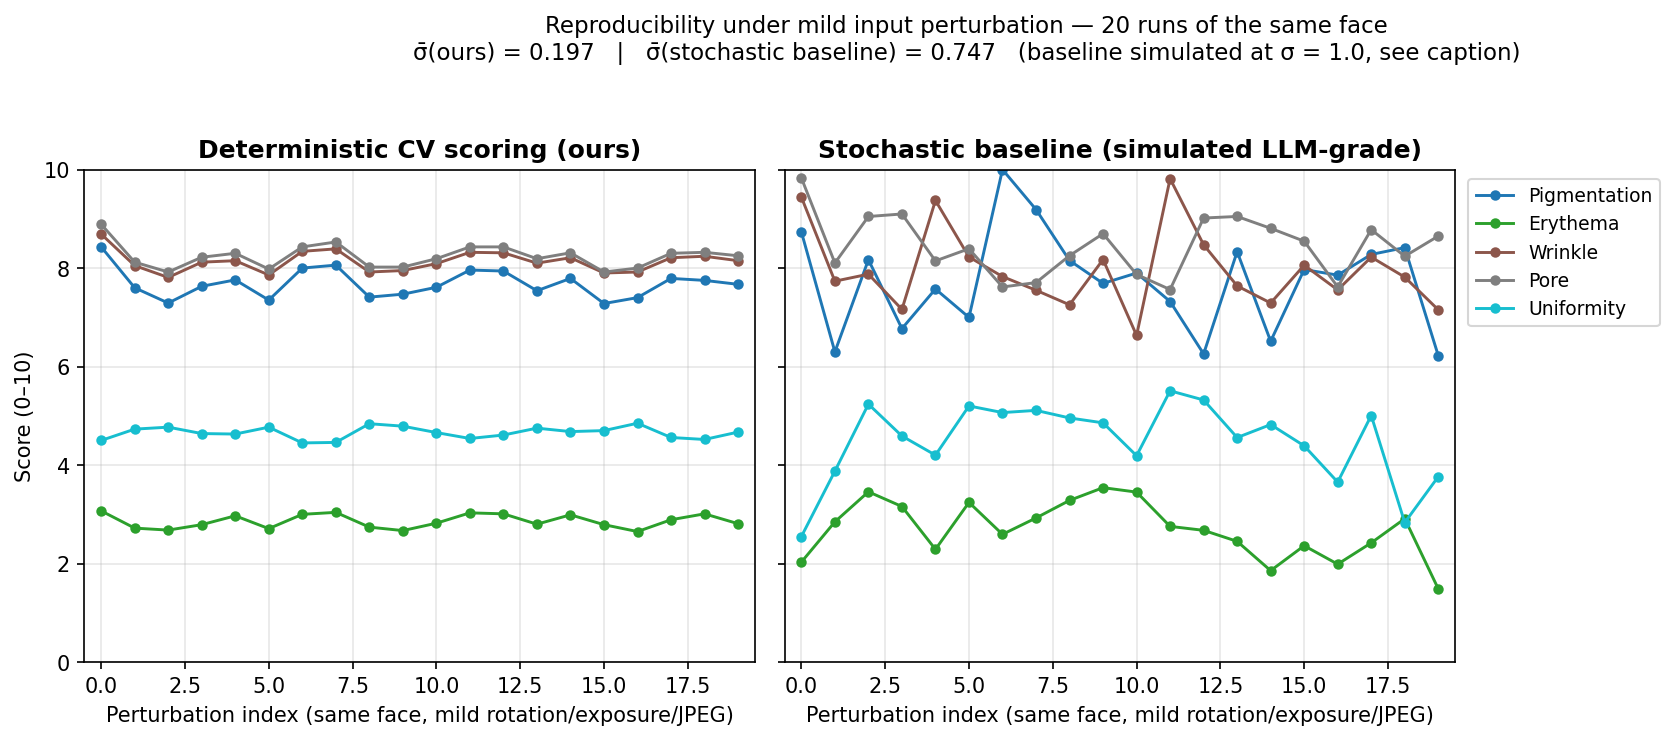
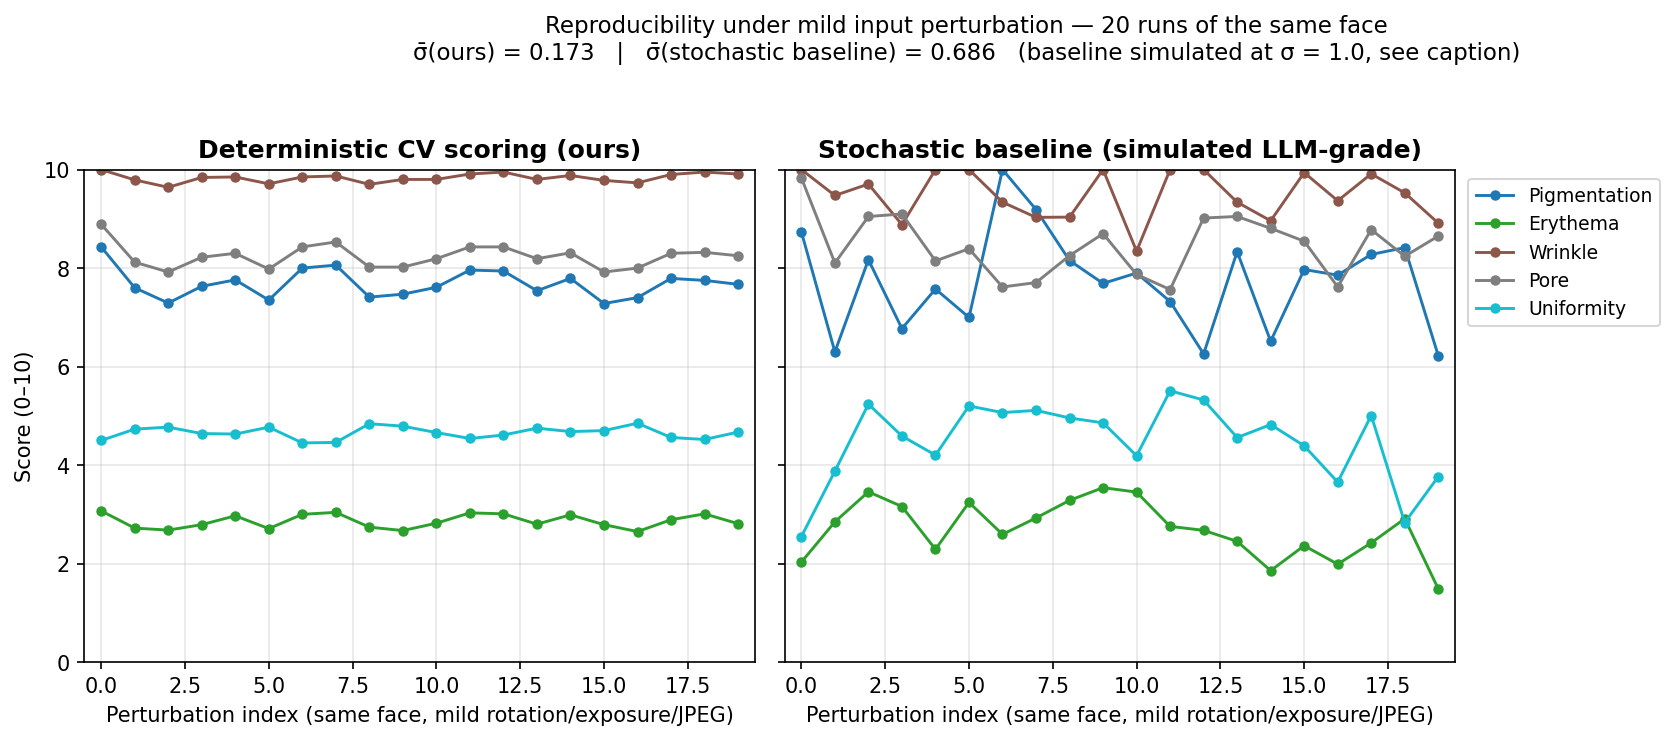
docs: refresh reproducibility evidence for FFHQ-retuned wrinkle range
Regenerated figure + sigma tables. Wrinkle sigma moves 0.209 -> 0.091:
the reference face sits in the FFHQ top tail, so raw values partially
clamp at the new population-calibrated 0.62 ceiling; an honesty note in
BUILD_NOTES S4 / TDD S3 makes the clamp contribution explicit. Other
metric rows unchanged. BUILD_NOTES S6 records the ground-truth re-fit
provenance.

diff --git a/docs/BUILD_NOTES.md b/docs/BUILD_NOTES.md
@@ -164,10 +164,10 @@ qualitative gap is what matters, not the exact baseline number:
 |---|---:|---:|
 | pigmentation | 0.286 | 0.988 |
 | erythema | 0.139 | 0.565 |
-| wrinkle | 0.209 | 0.794 |
+| wrinkle | 0.091 | 0.488 |
 | pore | 0.232 | 0.595 |
 | uniformity | 0.119 | 0.792 |
-| **mean σ̄** | **0.197** | **0.747** |
+| **mean σ̄** | **0.173** | **0.686** |
 
 ~4× tighter than a representative stochastic grader. This is what
 "tracks consistently across visits" means in numbers.
@@ -181,6 +181,16 @@ mid-band where perturbation sensitivity is real and visible. The number
 that actually matters for longitudinal tracking moved the right way:
 **cross-resolution drift on the same face fell from up to 5.5 points
 (v1) to ≤ 1.05 points (v2)** — see Session 4 below for the mechanism.
+
+The v2-retuned wrinkle row deserves the same scrutiny in the other
+direction: this reference face sits in the top tail of the FFHQ
+population (raw wrinkle at/above the p95-calibrated 0.62 ceiling in
+57 of 80 per-ROI measurements across the 20 runs), so part of its
+post-retune σ (0.091) is ceiling-clamp, not pure robustness. That is
+the accepted cost of calibrating the range to the population p5–p95
+instead of to our 5 reference faces — ~5% of real faces will clamp at
+10 by construction. A mid-band reference face would make the wrinkle
+row comparable again; noted as a follow-up.
 
 ## 5. Trade-offs I made deliberately
 
@@ -365,6 +375,14 @@ the reference set (from up to 5.5 pre-v2).
   evenly-lit reference faces (`WRINKLE 0.10–0.50 → 0.25–0.75`,
   `PORE 0.01–0.15 → 0.03–0.22`); pigmentation / erythema / uniformity
   distributions were unchanged and keep their v1 ranges.
+* **Wrinkle range re-fitted a second time, now against ground truth**
+  (Session 6): FFHQ-Wrinkle (n=1000 hand-annotated faces, ROI-restricted,
+  CLAHE-matched to production) measures real-face `wrinkle_raw` p5–p95 =
+  [0.197, 0.619] — the reference-face ceiling of 0.75 was never reached,
+  so the top quarter of the 0–10 wrinkle scale was dead range.
+  `WRINKLE_RAW_RANGE` is now (0.20, 0.62), pinned to the measured
+  distribution by `tests/test_validation_benchmarks.py`
+  (`uv run pytest -m validation`).
 
 ## 7. What I cut for time
 

diff --git a/docs/TDD.md b/docs/TDD.md
@@ -47,7 +47,7 @@ Every metric runs on an **effective mask**: the anatomical ROI polygon minus spe
 
 Each raw measurement is linearly clamped against a published constant (`PIGMENTATION_RAW_RANGE`, etc.), calibrated on the five evenly-lit reference faces at the v2 normalization scale. **Re-calibrating to a clinic's distribution = editing one tuple, not retraining a model.** Formula changes bump `SCORING_VERSION` (now 2), which is **persisted on every visit row** — a longitudinal chart can annotate a version boundary, but it can never silently mix numbers produced by different formulas. Pre-v2 rows are backfilled to version 1 by a zero-downtime migration.
 
-**Reproducibility.** Zero stochastic ops, zero LLM calls, zero network I/O in the scoring path. Same input → bit-identical output, enforced by `tests/test_scoring_determinism.py` (8 tests, including a no-input-mutation guard). Under mild perturbation (rotation ≤ 1.5°, exposure ±4 %, JPEG re-encode q = 82–95; 20 trials on one face), `scripts/reproducibility_evidence.py` yields **σ̄(ours) ≈ 0.197 vs σ̄(stochastic baseline at σ=1.0) ≈ 0.747 — a ~4× tighter band** (per-metric: pigmentation 0.286, erythema 0.139, wrinkle 0.209, pore 0.232, uniformity 0.119). An honesty note on the v1→v2 comparison: v1 reported σ̄ ≈ 0.074, but two of its five metrics (wrinkle 0.000, pore 0.000) were *saturated at 10.0* on the reference face — a clamped score cannot vary, so part of that figure was range mis-calibration masquerading as robustness. v2's recalibrated ranges put scores mid-band where perturbation sensitivity is actually visible. The metric that matters for the product improved where it counts: **cross-resolution drift on the same face dropped from up to 5.5 points (v1) to ≤ 1.05 points (v2)** on the reference set, with undersampled inputs now rejected at the gate instead of silently mis-scored. The right panel uses a *simulated* baseline (no live Vision-LLM credit was available in the 48 hr window); the script is parameterised so swapping in a Claude vision call regenerates it without other changes.
+**Reproducibility.** Zero stochastic ops, zero LLM calls, zero network I/O in the scoring path. Same input → bit-identical output, enforced by `tests/test_scoring_determinism.py` (8 tests, including a no-input-mutation guard). Under mild perturbation (rotation ≤ 1.5°, exposure ±4 %, JPEG re-encode q = 82–95; 20 trials on one face), `scripts/reproducibility_evidence.py` yields **σ̄(ours) ≈ 0.173 vs σ̄(stochastic baseline at σ=1.0) ≈ 0.686 — a ~4× tighter band** (per-metric: pigmentation 0.286, erythema 0.139, wrinkle 0.091, pore 0.232, uniformity 0.119; the wrinkle value partly reflects ceiling-clamp on this high-texture reference face — see BUILD_NOTES §4). An honesty note on the v1→v2 comparison: v1 reported σ̄ ≈ 0.074, but two of its five metrics (wrinkle 0.000, pore 0.000) were *saturated at 10.0* on the reference face — a clamped score cannot vary, so part of that figure was range mis-calibration masquerading as robustness. v2's recalibrated ranges put scores mid-band where perturbation sensitivity is actually visible. The metric that matters for the product improved where it counts: **cross-resolution drift on the same face dropped from up to 5.5 points (v1) to ≤ 1.05 points (v2)** on the reference set, with undersampled inputs now rejected at the gate instead of silently mis-scored. The right panel uses a *simulated* baseline (no live Vision-LLM credit was available in the 48 hr window); the script is parameterised so swapping in a Claude vision call regenerates it without other changes.
 
 ![reproducibility evidence](figures/reproducibility.png)
 